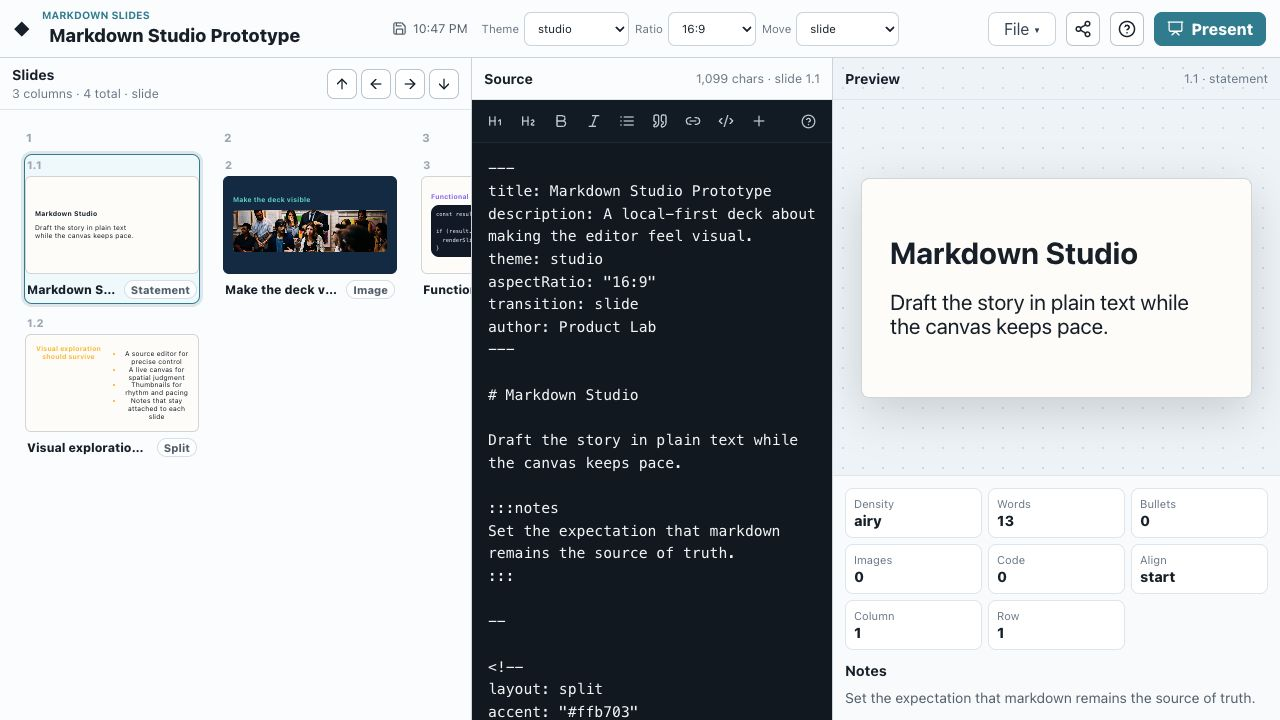
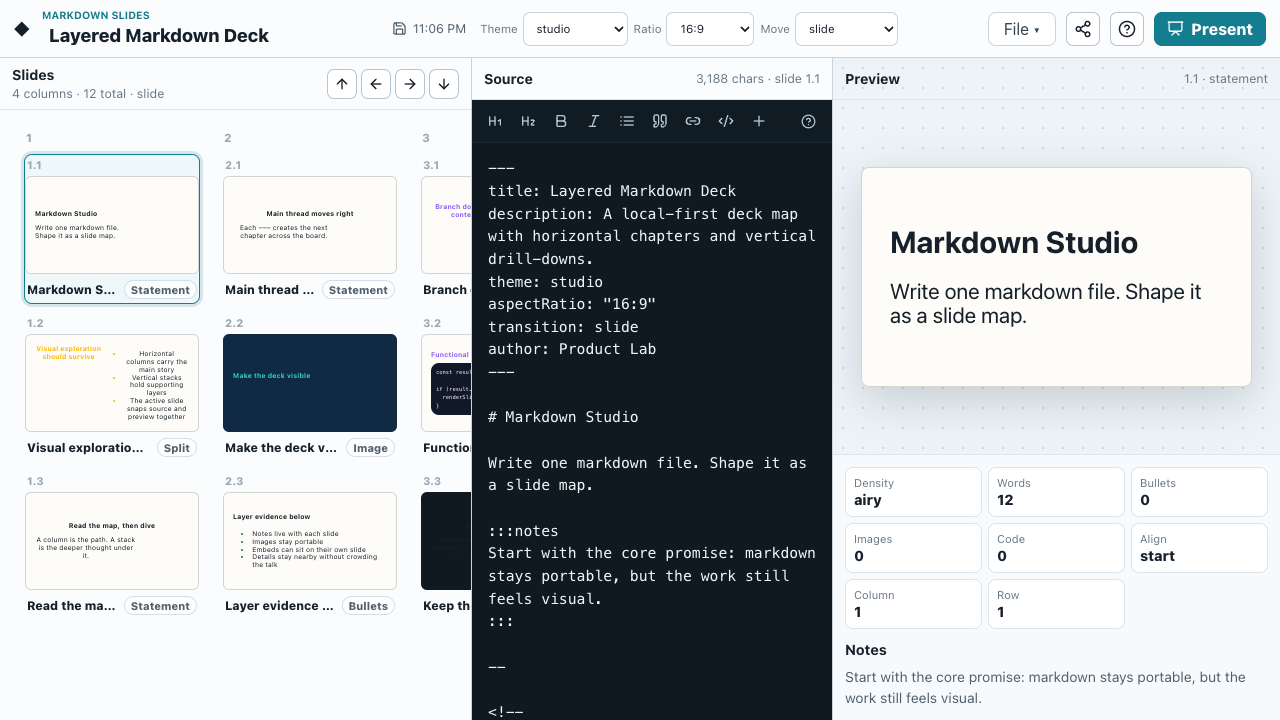
Show layered decks in the default sample
Replace the starter deck with a four-column, twelve-slide map that demonstrates horizontal chapters and vertical drill-down layers. The first column introduces the model, later columns show imagery, evidence, implementation context, and the authoring loop.

Add a unit test that locks in the sample deck shape so the default experience keeps exercising both --- horizontal movement and -- vertical stacks.

Refresh the README copy, README screenshot, and Open Graph image so the public docs and link preview match the board/editor/preview interface and richer default deck.

diff --git a/src/ui/sampleDeck.ts b/src/ui/sampleDeck.ts
@@ -1,6 +1,6 @@
 export const sampleDeckMarkdown = `---
-title: Markdown Studio Prototype
-description: A local-first deck about making the editor feel visual.
+title: Layered Markdown Deck
+description: A local-first deck map with horizontal chapters and vertical drill-downs.
 theme: studio
 aspectRatio: "16:9"
 transition: slide
@@ -9,10 +9,10 @@ author: Product Lab
 
 # Markdown Studio
 
-Draft the story in plain text while the canvas keeps pace.
+Write one markdown file. Shape it as a slide map.
 
 :::notes
-Set the expectation that markdown remains the source of truth.
+Start with the core promise: markdown stays portable, but the work still feels visual.
 :::
 
 --
@@ -25,16 +25,47 @@ align: center
 
 ## Visual exploration should survive
 
-- A source editor for precise control
-- A live canvas for spatial judgment
-- Thumbnails for rhythm and pacing
-- Notes that stay attached to each slide
+- Horizontal columns carry the main story
+- Vertical stacks hold supporting layers
+- The active slide snaps source and preview together
 
 :::notes
-The product should feel like composing a deck, not filling out a form.
+Use this slide to explain why the board exists: thoughts can branch without becoming a maze.
+:::
+
+--
+
+<!--
+layout: statement
+accent: "#2dd4bf"
+align: center
+-->
+
+## Read the map, then dive
+
+A column is the path. A stack is the deeper thought under it.
+
+:::notes
+This is the mental model for the rest of the default deck.
 :::
 
 ---
+
+<!--
+layout: statement
+accent: "#147d8f"
+align: center
+-->
+
+## Main thread moves right
+
+Each \`---\` creates the next chapter across the board.
+
+:::notes
+The top row works like the spine of the talk.
+:::
+
+--
 
 <!--
 layout: image
@@ -46,7 +77,48 @@ accent: "#2dd4bf"
 
 ![A team reviewing a presentation](https://images.unsplash.com/photo-1515187029135-18ee286d815b?auto=format&fit=crop&w=1400&q=80)
 
+:::notes
+Images work best when they support a single point instead of becoming decoration.
+:::
+
+--
+
+<!--
+layout: bullets
+accent: "#0f766e"
+-->
+
+## Layer evidence below
+
+- Notes live with each slide
+- Images stay portable
+- Embeds can sit on their own slide
+- Details stay nearby without crowding the talk
+
+:::notes
+Vertical slides are useful for appendix material, proof points, and optional depth.
+:::
+
 ---
+
+<!--
+layout: split
+accent: "#8b5cf6"
+align: center
+-->
+
+## Branch down for context
+
+- Design rationale
+- Caveats
+- Data
+- Appendix moments
+
+:::notes
+The board should make it obvious where supporting material belongs.
+:::
+
+--
 
 <!--
 layout: code
@@ -59,7 +131,77 @@ accent: "#8b5cf6"
 const result = parseMarkdownDeck(markdown);
 
 if (result.ok) {
-  renderSlideCanvas(result.deck.slides);
+  renderSlideBoard(result.deck.columns);
 }
 \`\`\`
+
+:::notes
+The parser stays boring and testable; the React shell handles browser behavior.
+:::
+
+--
+
+<!--
+layout: statement
+background: "#101820"
+accent: "#2dd4bf"
+align: center
+-->
+
+## Keep the source boring
+
+Markdown stays readable enough for Git, chat, export, and static hosting.
+
+:::notes
+The file should remain useful even outside the app.
+:::
+
+---
+
+<!--
+layout: bullets
+accent: "#f97316"
+-->
+
+## Compose, test, present
+
+- Type in the editor
+- Watch the preview change
+- Browse the board
+- Present when the story is ready
+
+:::notes
+This is the day-to-day authoring loop.
+:::
+
+--
+
+<!--
+layout: split
+accent: "#ffb703"
+align: center
+-->
+
+## Try the directions
+
+- \`---\` adds a slide to the right
+- \`--\` adds one below
+- Arrow buttons create both
+- Arrow keys browse both
+
+:::notes
+Invite the user to click around instead of reading docs first.
+:::
+
+--
+
+<!--
+layout: title
+accent: "#147d8f"
+align: center
+-->
+
+# Your turn
+
+Paste a brief, branch the thinking, and let the deck take shape.
 `;

diff --git a/src/ui/sampleDeck.test.ts b/src/ui/sampleDeck.test.ts
@@ -1,0 +1,33 @@
+import { describe, expect, it } from "vitest";
+
+import { parseMarkdownDeckOrThrow } from "../core";
+import { sampleDeckMarkdown } from "./sampleDeck";
+
+describe("sampleDeckMarkdown", () => {
+  it("demonstrates horizontal chapters with vertical drill-down layers", () => {
+    const deck = parseMarkdownDeckOrThrow(sampleDeckMarkdown);
+
+    expect(deck.columns).toHaveLength(4);
+    expect(deck.slides).toHaveLength(12);
+    expect(
+      deck.columns.map((column) => column.map((slide) => slide.title)),
+    ).toEqual([
+      [
+        "Markdown Studio",
+        "Visual exploration should survive",
+        "Read the map, then dive",
+      ],
+      [
+        "Main thread moves right",
+        "Make the deck visible",
+        "Layer evidence below",
+      ],
+      [
+        "Branch down for context",
+        "Functional core, imperative shell",
+        "Keep the source boring",
+      ],
+      ["Compose, test, present", "Try the directions", "Your turn"],
+    ]);
+  });
+});

diff --git a/README.md b/README.md
@@ -12,16 +12,18 @@ you write, and the whole thing can be hosted as static files on GitHub Pages.
 
 - Markdown as the source of truth for every slide.
 - Live deck rendering while editing.
-- A scrolling full-deck preview so slide rhythm is visible at a glance.
+- A spatial slide board for browsing horizontal chapters and vertical stacks.
+- A focused preview for the selected slide.
 - Two-dimensional decks with horizontal columns and vertical slide stacks.
 - Compact frontmatter controls for title, theme, aspect ratio, and transition.
 - Markdown formatting tools for headings, emphasis, lists, quotes, links, code, and slide separators.
-- Slide thumbnails with numbers and layout badges for quick navigation.
+- Board tiles with position labels and layout badges for quick navigation.
 - Speaker notes kept beside the selected slide.
 - Lightweight slide stats for density, words, bullets, images, code blocks, and alignment.
 - Frontmatter-driven deck metadata that stays in the markdown file.
 - Per-slide directives for layout, background, accent, alignment, and IDs.
 - Drag-and-drop image embedding directly into the markdown editor.
+- Standalone X/Twitter and Bluesky post embeds from pasted post URLs.
 - Markdown import, markdown download, and static share links from the toolbar.
 - Presentation mode with keyboard navigation.
 - First-run guided walkthrough, with replay from the toolbar.
@@ -38,8 +40,8 @@ https://notactuallytreyanastasio.github.io/gpt_slides/
 The app has three main work areas:
 
 - **Source**: the markdown editor. This is the canonical deck file.
-- **Canvas**: a scrollable rendered flow of the full deck.
-- **Slides**: thumbnails plus the selected slide inspector and speaker notes.
+- **Slides**: a spatial board of horizontal columns and vertical stacks.
+- **Preview**: the selected slide plus inspector and speaker notes.
 
 The goal is to preserve the visual, exploratory feeling of building slides
 while keeping the deck easy to edit, diff, export, and host.
@@ -104,8 +106,8 @@ align: center
 ## Visual exploration should survive
 
 - Source editor
-- Live canvas
-- Deck outline
+- Slide board
+- Focused preview
 ```
 
 Supported directive fields:
@@ -203,6 +205,7 @@ Current browser flows cover:
 - LocalStorage persistence through reload
 - typed parse feedback for invalid metadata
 - image drag/drop into the editor
+- standalone X/Twitter and Bluesky post embeds
 - presentation mode and keyboard navigation
 
 Run everything with: